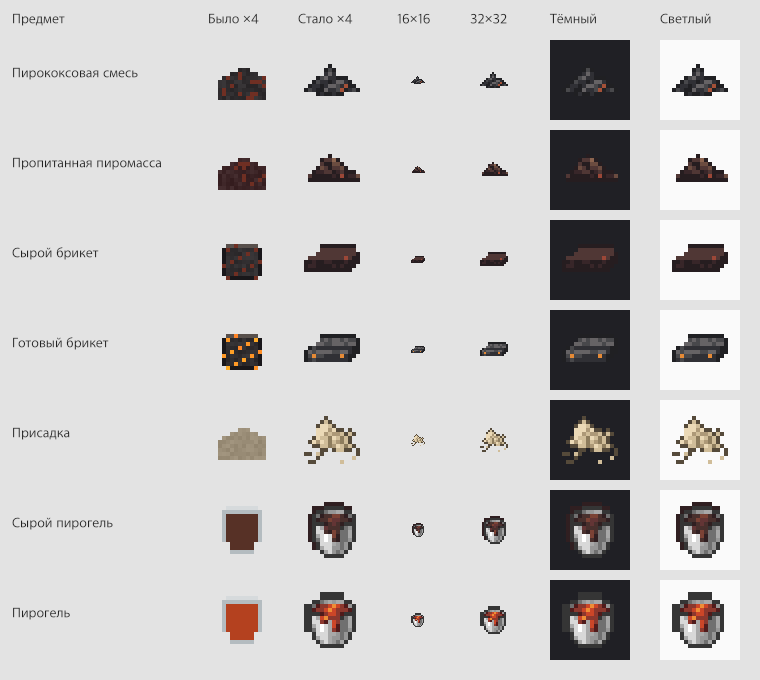
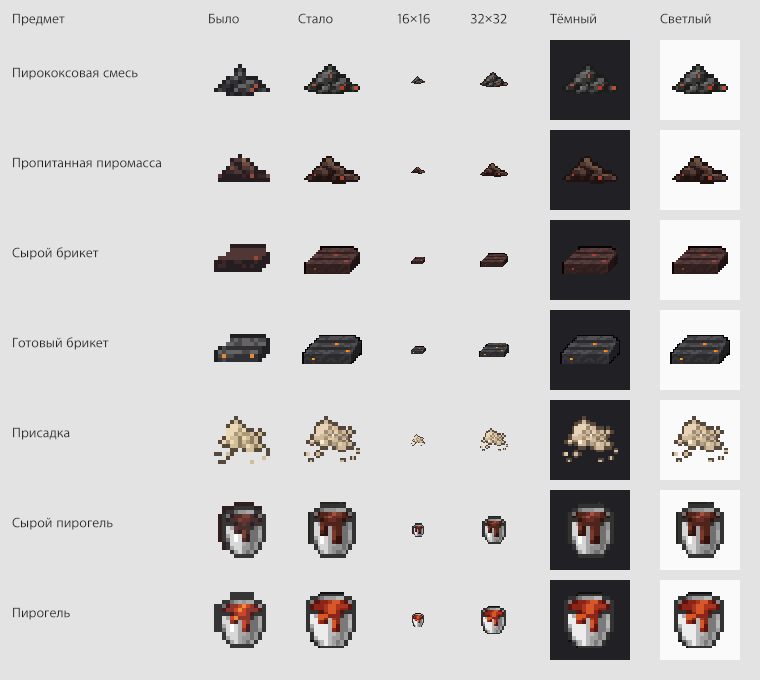
Аддоны: сохранены форма и детали игровых значков Pyrofuel

diff --git a/tools/pyrofuel-mod/art/gen_assets.py b/tools/pyrofuel-mod/art/gen_assets.py
@@ -13,8 +13,8 @@ ITEMS = [
 # Авторские PNG хранятся в ресурсах. Выпуск не должен возвращать старые процедурные значки.
 for name in ITEMS:
     image = read(TEXTURES / 'item' / (name + '.png'))
-    if len(image) != 16 or any(len(row) != 16 for row in image):
-        raise ValueError(f'Ожидается готовая текстура 16×16: {name}')
+    if len(image) not in (16, 32, 64) or any(len(row) != len(image) for row in image):
+        raise ValueError(f'Ожидается готовая квадратная текстура 16/32/64: {name}')
 
 for name in ('raw_pyrogel', 'pyrogel'):
     tile = read(ART / 'tiles' / (name + '.png'))
@@ -35,15 +35,15 @@ for name in ('raw_pyrogel', 'pyrogel'):
             json.dumps({'animation': {'frametime': 4, 'interpolate': False}}) + '\n'
         )
 
-# Увеличение без сглаживания — только технический просмотр готовых предметов.
-canvas = [[(28, 30, 34, 255)] * (len(ITEMS) * 80) for _ in range(80)]
+# Просмотр целого PNG: размер картинки не должен обрезать более крупные текстуры.
+canvas = [[(28, 30, 34, 255)] * (len(ITEMS) * 144) for _ in range(144)]
 for i, name in enumerate(ITEMS):
     image = read(TEXTURES / 'item' / (name + '.png'))
-    for y in range(16):
-        for x in range(16):
-            if image[y][x][3]:
-                for dy in range(4):
-                    for dx in range(4):
-                        canvas[8 + y * 4 + dy][i * 80 + 8 + x * 4 + dx] = image[y][x]
+    size = len(image)
+    for y in range(128):
+        for x in range(128):
+            pixel = image[y * size // 128][x * size // 128]
+            if pixel[3]:
+                canvas[8 + y][i * 144 + 8 + x] = pixel
 write(ART / 'preview.png', canvas)
 print('Готово: анимации пирогеля и просмотр; предметные PNG сохранены.')

diff --git a/tools/pyrofuel-mod/art/textures.md b/tools/pyrofuel-mod/art/textures.md
@@ -17,21 +17,26 @@
 
 ## Подготовка
 
-Выбранные исходники ImageGen сохранены в `sources/`. Готовые предметные PNG — 16×16 RGBA,
-в `../src/main/resources/assets/pyrofuel/textures/item/`. Палитры указаны в `palettes.json`.
-Механическая подготовка через Sharp: границы объекта определены по альфе ≥128, пустые поля
-удалены; рисунок вписан в 14×14 (`nearest`, `contain`) без изменения пропорций, добавлено по
-1 прозрачному пикселю со всех сторон. Ближайший цвет палитры по RGB, без дизеринга,
-альфа 0/255 с порогом 128. 5–11 цветов с прозрачностью в зависимости от предмета.
+Выбранные исходники ImageGen сохранены в `sources/`. Пользователь выбрал исходный готовый
+брикет с тремя оранжевыми включениями (приложение 2026-10-29); вариант с двумя крупными
+включениями отклонён. Перегенерация рисунка не выполнялась.
 
-Первый готовый брикет потерял оранжевые включения после уменьшения. Исходник уточнён:
-два более крупных простых включения на передней грани, без добавления свечения и деталей.
+Готовые предметные PNG — 32×32 RGBA, выбранный готовый брикет — 64×64 RGBA, в
+`../src/main/resources/assets/pyrofuel/textures/item/`. Метаданные размеров и границ исходников —
+`item-preparation.json`. Ранее уменьшение до 16×16 и фиксированных 5–11 цветов теряло контур,
+грани и небольшие включения. Маски в моделях нет: один layer0, родитель item/generated.
+
+Механическая подготовка: границы объекта по альфе ≥128, удаление только пустых полей;
+вписать без изменения пропорций в (размер−4)² через Sharp nearest/contain, добавить 2 прозрачных
+пикселя с каждой стороны. Альфа 0/255 с порогом 128. Адаптивная палитра до 16 цветов,
+без дизеринга (Sharp palette=true, colours=16); затем экспорт PNG в RGBA 8 бит, чтобы
+сборщик ресурсов мог его прочитать. У готового брикета 15 цветов, у остальных 15–16.
 
 Жидкости: исходники `sources/*_tile.png` уменьшены без обрезки до 16×16 (`nearest`) и
 приведены к палитрам из 4/5 цветов. Подготовленные тайлы — `tiles/`. `gen_assets.py`
 собирает из них 8 кадров: still 16×128, flow 32×256; frametime=4, без интерполяции.
 Стоячая жидкость мягко смещается по X, текущая — циклически по Y. Рисунки предметов
-скрипт проверяет и сохраняет, а не рисует заново. Дополнительные библиотеки для сборки не нужны.
+скрипт проверяет и сохраняет, а не рисует заново; поддерживаются размеры 16/32/64. Дополнительные библиотеки для сборки не нужны.
 
 ## Просмотр и ограничения
 
@@ -79,6 +84,6 @@ Create a SEAMLESS TILEABLE pixel-art FLUID TEXTURE for raw industrial pyrogel in
 
 Edit the supplied RAW PYROGEL seamless fluid tile into a FINISHED PYROGEL fluid tile for native Minecraft Create/TFC style. Preserve its broad stepped horizontal patches and flat simple geometry. Change palette to FOUR muted brick-red/burgundy colors #391c26 #622733 #8c382e #b64b2d, with at most TWO small flat orange patches #e4772f. It must remain dark industrial fuel with sparse warm inclusions, not bright lava, magma, fire or magical liquid. Strict logical 16x16 pixel tile enlarged nearest-neighbor, no smooth gradients, round ripples, bubbles, gloss, sparkle, fine noise or outlines around each pixel. Fully opaque square surface tile filling entire image edge to edge, seamlessly repeating on all four sides. No border, object, perspective, text, label or surrounding background. Restrained broad colour regions, not detailed illustration.
 
-### pyrocoke_briquette_revision
+### pyrocoke_briquette_revision — отклонено пользователем
 
 Edit this finished pyrocoke fuel brick sprite. KEEP the simple rectangular pressed-brick shape, viewing angle, charcoal flat top/front/right planes and two straight top grooves. CHANGE the THREE TINY ORANGE SPECKS into TWO MUCH BROADER simple flat amber-orange rectangular inclusions in the FRONT FACE. Each orange inclusion must occupy about 2 by 2 logical pixels on the intended 16x16 sprite (about one sixth the brick width), so it remains visible after reduction to 16x16. Put one inclusion toward the left end and one toward the right end of the front face. Flat orange #d67824 with no highlight or border. Remove all the other small glowing dots. No shine, light emission, bloom, flames, cracks, fine noise or extra shading. Few large plain grey planes, simple dark outline. This is a native modest Minecraft Create/TFC inventory item sprite, not a detailed pixel-art illustration. Strict 16x16 logical grid enlarged nearest-neighbor, about 7 flat colours. Entire isolated complete brick on true transparent background.

diff --git a/tools/pyrofuel-mod/README.md b/tools/pyrofuel-mod/README.md
@@ -59,7 +59,9 @@ JDK 21, `./libs.sh`, `./gradlew build`, `./test-server.sh`.
 
 В задаче №135 обновлены семь предметов и обе жидкости: простые формы, небольшие палитры,
 различимые стадии производства. Ведра сохраняют стандартный силуэт CDG, готовое топливо
-отличается оранжевыми включениями. Предметы 16×16; жидкости — 8 кадров без интерполяции.
+отличается тремя оранжевыми включениями. Предметы 32×32, выбранный пользователем готовый
+брикет 64×64; жидкости — 8 кадров без интерполяции. При подготовке сохраняются пропорции,
+полный контур и небольшие включения; модели используют PNG целиком, без отдельной маски.
 Исходники, точные запросы и подготовка — `art/textures.md`, сравнение —
 `art/preview-comparison.png`, жидкости — `art/preview-fluids.png`. Сборка не затирает новые рисунки.
 Опубликованная версия 1.0.0 пока не менялась; в игре текстуры не проверялись.

diff --git a/docs/state/addons.md b/docs/state/addons.md
@@ -233,8 +233,10 @@ only the jar on the site (`/addons/tp-trace-1.0.0.jar`), not in the addon list. 
   (64 rpm imposed by the test fixture), empty shutdown, bucket transfers and 1900 mB retained across restart. Client rendering, complete factory automation and full-pack compatibility: not checked in game.
 - Separate pre-existing CDG/IE recipe parse errors found during testing: dev #118.
 
-- **Texture sources (dev #135, 2026-10-29):** all seven item sprites replaced at 16×16,
-  with simple shapes and 5–11 colours including transparency. Native TFC/IE powders, Create fuel colours and
+- **Texture sources (dev #135, 2026-10-29):** all seven item sprites replaced; six at 32×32 and the user-selected finished
+  briquette at 64×64 (three orange inclusions), with 15–16 colours including transparency.
+  Earlier forced 16×16 conversion and fixed tiny palettes discarded contour/material details; no separate mask
+  exists in their single-layer item/generated models. Alpha bounds and proportions are preserved. Native TFC/IE powders, Create fuel colours and
   CDG bucket silhouette used as references. Raw/finished fluid tiles use 4/5 colours; eight-frame still/flow
   animations assembled deterministically. Source art, prompts and palettes in `art/`; resource generation
   preserves item PNGs. Prepared for the next release; published 1.0.0 unchanged. Not checked in game.

diff --git a/.claude/skills/addon-dev/references/item-textures.md b/.claude/skills/addon-dev/references/item-textures.md
@@ -63,6 +63,11 @@ under the addon's `art/` directory so later work does not depend on a temporary 
 - Inspect beside the host block and parent-mod items, not only beside other generated artwork. A high-resolution
   pixel-styled illustration is not yet a native-size sprite. Check outline, flat planes and limited palette after
   reduction; quantization is mechanical cleanup, not a substitute for simple source geometry.
+- For approved source art, preserve its silhouette, proportions and identifying marks. Do not force 16×16 or a
+  fixed tiny palette when they erase the approved design: compare 32/64 first, before redrawing features. Compare
+  source → runtime PNG → rendered item at equal display size; check transparent margins and all contour extremes.
+  A standard single-layer `item/generated` uses the PNG alpha, not a separate clipping mask. Check custom loaders
+  separately instead of assuming that every apparent cut is a mask.
 - Save the runtime PNG under `src/main/resources/assets/<modid>/textures/item/<name>.png`; check the consuming
   item model and its texture reference against the addon's existing conventions. Keep source artwork outside
   runtime resources. Do not add Pillow as a runtime/build requirement just for one conversion.
